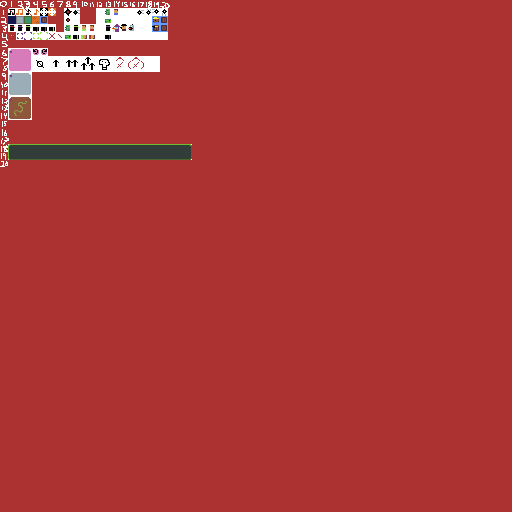
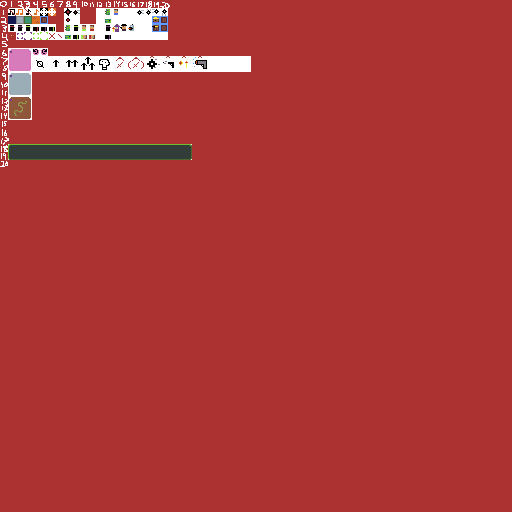
shoot em up mode

Changed region(s): [[0.2812, 0.0938, 0.5, 0.1562]]

diff --git a/src/ludumDare41/server/CardInfo.ts b/src/ludumDare41/server/CardInfo.ts
@@ -2,7 +2,7 @@
 import * as _ from 'lodash'
 
 export interface ICardAction {
-  type: 'move' | 'attack'
+  type: 'move' | 'attack' | 'shoot'
   dir?: number
 }
 
@@ -98,6 +98,59 @@ export const cards: ICard[] = [
     ]
   },
 
+  {
+    name: 'Shiriken',
+    type: 'attack',
+    frame: 6,
+    actions: [
+      {
+        type: 'shoot',
+      }
+    ]
+  },
+  {
+    name: 'Shoot Gun',
+    type: 'attack',
+    frame: 7,
+    actions: [
+      {
+        type: 'attack',
+      },
+      {
+        type: 'shoot',
+      }
+    ]
+  },
+  {
+    name: 'Fireball',
+    type: 'attack',
+    frame: 8,
+    actions: [
+      {
+        type: 'shoot',
+      }, {
+        type: 'shoot',
+        dir: +1,
+      }, {
+        type: 'shoot',
+        dir: +2,
+      }, {
+        type: 'shoot',
+        dir: +3,
+      }
+    ]
+  },
+  {
+    name: 'Rocket',
+    type: 'attack',
+    frame: 9,
+    actions: [
+      {
+        type: 'shoot',
+      }
+    ]
+  },
+
 ]
 
 const nullCard = _.find(cards, c => c.name === 'Null')
@@ -119,6 +172,11 @@ addCards(standardDeck, 'Sprint', 1)
 
 addCards(standardDeck, 'Punch', 2)
 addCards(standardDeck, 'Swipe', 2)
+
+addCards(standardDeck, 'Shiriken', 2)
+addCards(standardDeck, 'Shoot Gun', 2)
+addCards(standardDeck, 'Fireball', 2)
+addCards(standardDeck, 'Rocket', 2)
 
 const deadHand: ICard[] = []
 addCards(deadHand, 'Dead', 6)

diff --git a/src/ludumDare41/server/Server.ts b/src/ludumDare41/server/Server.ts
@@ -525,6 +525,23 @@ export class Server {
           for (let iCardCaction = 0; iCardCaction < card.actions.length; iCardCaction++) {
             let action = card.actions[iCardCaction]
 
+            if (c.isAlive && action.type === 'shoot') {
+              let correctedDir = dir
+              if (action.dir) {
+                correctedDir += action.dir
+              }
+
+              let { xo, yo } = this.convertDirToOffsets(correctedDir)
+              let xp = c.x + xo
+              let yp = c.y + yo
+
+              let gs = this.getMapSafe(xp, yp)
+              if (gs) {
+                this._addBullet(xp, yp, correctedDir)
+              }
+
+            }
+
             if (c.isAlive && action.type === 'attack') {
 
               let correctedDir = dir
@@ -746,7 +763,7 @@ export class Server {
         })
         c.isAlive = false
       }
-      
+
     })
 
     if (moves.length > 0) {

diff --git a/src/ludumDare41/LudumDare41Context.ts b/src/ludumDare41/LudumDare41Context.ts
@@ -24,7 +24,7 @@ import { EffectManager } from 'ludumDare41/entities/Effect';
 import { BulletManager } from 'ludumDare41/entities/Bullet';
 
 const showSplashScreen = false
-const useLocalServer = true
+const useLocalServer = false
 //const testServerAddress = 'http://localhost:4002'
 const testServerAddress = 'http://192.168.0.113:4002'
 
